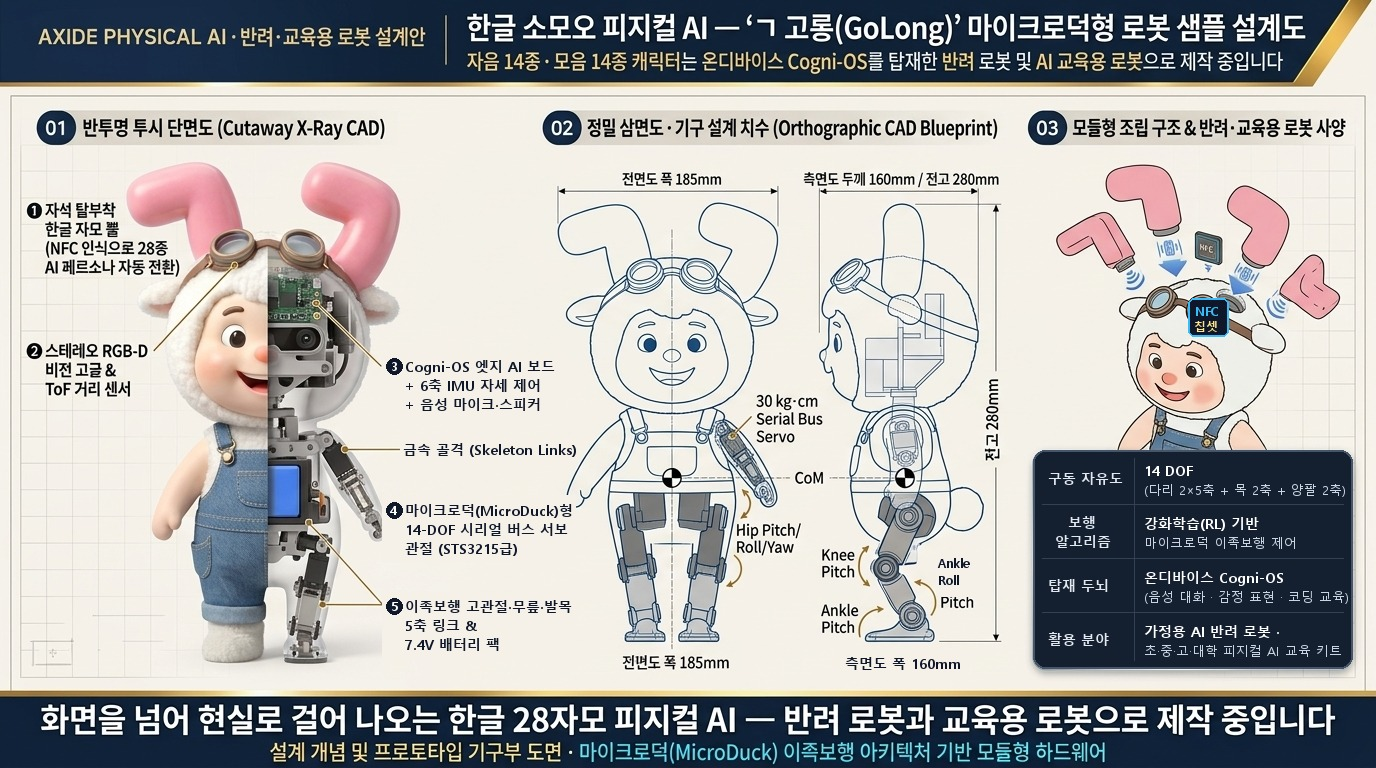
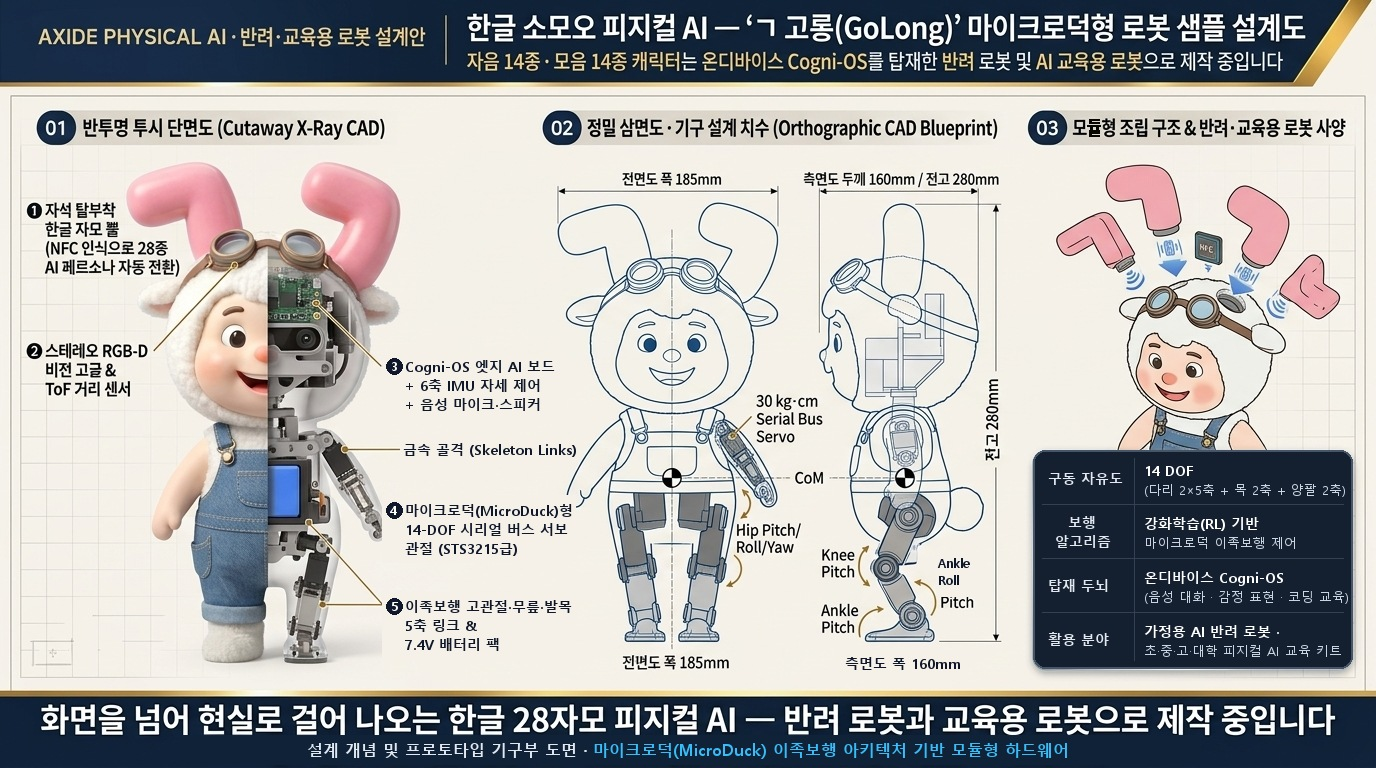
Fix typo 모들형 -> 모듈형 in Section 03 header and footer of GoLong MicroDuck robot blueprint

Changed region(s): [[0.1875, 0.9688, 0.8125, 1.0], [0.8438, 0.375, 0.9062, 0.4375], [0.7812, 0.1562, 0.8125, 0.1875]]

diff --git a/story.html b/story.html
@@ -396,13 +396,13 @@
                                     <button type="button" onclick="openSomooCharacterModal(0)" class="btn btn-sm rounded-pill px-3 py-1 fw-bold" style="background: rgba(251, 191, 36, 0.22); color: #fde68a; border: 1px solid rgba(251, 191, 36, 0.55); font-size: 12px;">
                                         ⚙ ‘ㄱ 고롱’ 캐릭터 상세 팝업 열기
                                     </button>
-                                    <button type="button" onclick="openStoryLightbox('assets/images/story/story-somoo-golong-microduck-blueprint.jpg?v=20261107_v2', '한글 소모오 피지컬 AI — ‘ㄱ 고롱(GoLong)’ 마이크로덕(MicroDuck)형 이족보행 반려·교육용 로봇 샘플 설계도 (14-DOF 시리얼 버스 서보 · NFC 자모 뿔 교체 · 온디바이스 Cogni-OS 탑재)', false)" class="btn btn-sm rounded-pill px-3 py-1" style="background: rgba(15, 23, 42, 0.9); color: #7dd3fc; border: 1px solid rgba(56, 189, 248, 0.5); font-size: 12px;">
+                                    <button type="button" onclick="openStoryLightbox('assets/images/story/story-somoo-golong-microduck-blueprint.jpg?v=20261107_v3', '한글 소모오 피지컬 AI — ‘ㄱ 고롱(GoLong)’ 마이크로덕(MicroDuck)형 이족보행 반려·교육용 로봇 샘플 설계도 (14-DOF 시리얼 버스 서보 · NFC 자모 뿔 교체 · 온디바이스 Cogni-OS 탑재)', false)" class="btn btn-sm rounded-pill px-3 py-1" style="background: rgba(15, 23, 42, 0.9); color: #7dd3fc; border: 1px solid rgba(56, 189, 248, 0.5); font-size: 12px;">
                                         🔍 설계도 원본 크게 보기
                                     </button>
                                 </div>
                             </div>
-                            <div class="rounded-4 overflow-hidden" onclick="openStoryLightbox('assets/images/story/story-somoo-golong-microduck-blueprint.jpg?v=20261107_v2', '한글 소모오 피지컬 AI — ‘ㄱ 고롱(GoLong)’ 마이크로덕(MicroDuck)형 이족보행 반려·교육용 로봇 샘플 설계도 (14-DOF 시리얼 버스 서보 · NFC 자모 뿔 교체 · 온디바이스 Cogni-OS 탑재)', false)" style="border: 1px solid rgba(251, 191, 36, 0.45); background: #070b14; cursor: zoom-in;">
-                                <img src="assets/images/story/story-somoo-golong-microduck-blueprint.jpg?v=20261107_v2" alt="한글 소모오 피지컬 AI — ㄱ 고롱(GoLong) 마이크로덕(MicroDuck)형 이족보행 반려·교육용 로봇 샘플 설계도: 01 반투명 투시 단면도(Cutaway X-Ray CAD), 02 정밀 삼면도·기구 설계 치수(전면 185mm · 측면 160mm · 전고 280mm), 03 NFC 한글 자모 뿔 모듈형 조립 구조 및 사양" style="width: 100%; height: auto; display: block;" decoding="async" loading="lazy">
+                            <div class="rounded-4 overflow-hidden" onclick="openStoryLightbox('assets/images/story/story-somoo-golong-microduck-blueprint.jpg?v=20261107_v3', '한글 소모오 피지컬 AI — ‘ㄱ 고롱(GoLong)’ 마이크로덕(MicroDuck)형 이족보행 반려·교육용 로봇 샘플 설계도 (14-DOF 시리얼 버스 서보 · NFC 자모 뿔 교체 · 온디바이스 Cogni-OS 탑재)', false)" style="border: 1px solid rgba(251, 191, 36, 0.45); background: #070b14; cursor: zoom-in;">
+                                <img src="assets/images/story/story-somoo-golong-microduck-blueprint.jpg?v=20261107_v3" alt="한글 소모오 피지컬 AI — ㄱ 고롱(GoLong) 마이크로덕(MicroDuck)형 이족보행 반려·교육용 로봇 샘플 설계도: 01 반투명 투시 단면도(Cutaway X-Ray CAD), 02 정밀 삼면도·기구 설계 치수(전면 185mm · 측면 160mm · 전고 280mm), 03 NFC 한글 자모 뿔 모듈형 조립 구조 및 사양" style="width: 100%; height: auto; display: block;" decoding="async" loading="lazy">
                             </div>
                         </div>
                     </div>
@@ -2137,7 +2137,7 @@
                                         <div style="font-size: 11.5px; font-weight: 800; color: #2dd4bf;">🤖 PHYSICAL AI · 반려 로봇 & 교육용 로봇 제작 안내</div>
                                         <div style="font-size: 13px; color: #f8fafc; font-weight: 600; margin-top: 2px;">자음·모음 28종 소모오 캐릭터는 <strong>마이크로덕(MicroDuck)형 이족보행 피지컬 AI 반려·교육용 로봇</strong>으로 제작 중입니다.</div>
                                     </div>
-                                    <button type="button" onclick="openStoryLightbox('assets/images/story/story-somoo-golong-microduck-blueprint.jpg?v=20261107_v2', '한글 소모오 피지컬 AI — ‘ㄱ 고롱(GoLong)’ 마이크로덕(MicroDuck)형 이족보행 반려·교육용 로봇 샘플 설계도', false)" class="btn btn-sm rounded-pill px-3 py-1 fw-bold" style="background: rgba(45, 212, 191, 0.2); color: #99f6e4; border: 1px solid rgba(45, 212, 191, 0.55); font-size: 11.5px;">
+                                    <button type="button" onclick="openStoryLightbox('assets/images/story/story-somoo-golong-microduck-blueprint.jpg?v=20261107_v3', '한글 소모오 피지컬 AI — ‘ㄱ 고롱(GoLong)’ 마이크로덕(MicroDuck)형 이족보행 반려·교육용 로봇 샘플 설계도', false)" class="btn btn-sm rounded-pill px-3 py-1 fw-bold" style="background: rgba(45, 212, 191, 0.2); color: #99f6e4; border: 1px solid rgba(45, 212, 191, 0.55); font-size: 11.5px;">
                                         📐 ‘ㄱ 고롱’ 샘플 설계도 보기
                                     </button>
                                 </div>
@@ -2215,7 +2215,7 @@
                     pages: 'p.3–8', repImg: 'Im4.jpg',
                     images: [
                         { file: 'Im4.jpg', title: '대표 3D 캐릭터 포트레이트 (고롱)' },
-                        { file: 'assets/images/story/story-somoo-golong-microduck-blueprint.jpg?v=20261107_v2', title: '피지컬 AI 반려·교육용 로봇 — ‘ㄱ 고롱’ 마이크로덕(MicroDuck)형 이족보행 샘플 설계도' },
+                        { file: 'assets/images/story/story-somoo-golong-microduck-blueprint.jpg?v=20261107_v3', title: '피지컬 AI 반려·교육용 로봇 — ‘ㄱ 고롱’ 마이크로덕(MicroDuck)형 이족보행 샘플 설계도' },
                         { file: 'Im5.jpg', title: '4방향 3D 턴어라운드 시트 A (Front · Back · Right · Left)' },
                         { file: 'Im6.jpg', title: '4방향 3D 턴어라운드 시트 B (디테일 뷰)' },
                         { file: 'Im7.jpg', title: '3D 스토리 월드 씬 — 고롱의 태엽 발명 공방' },
